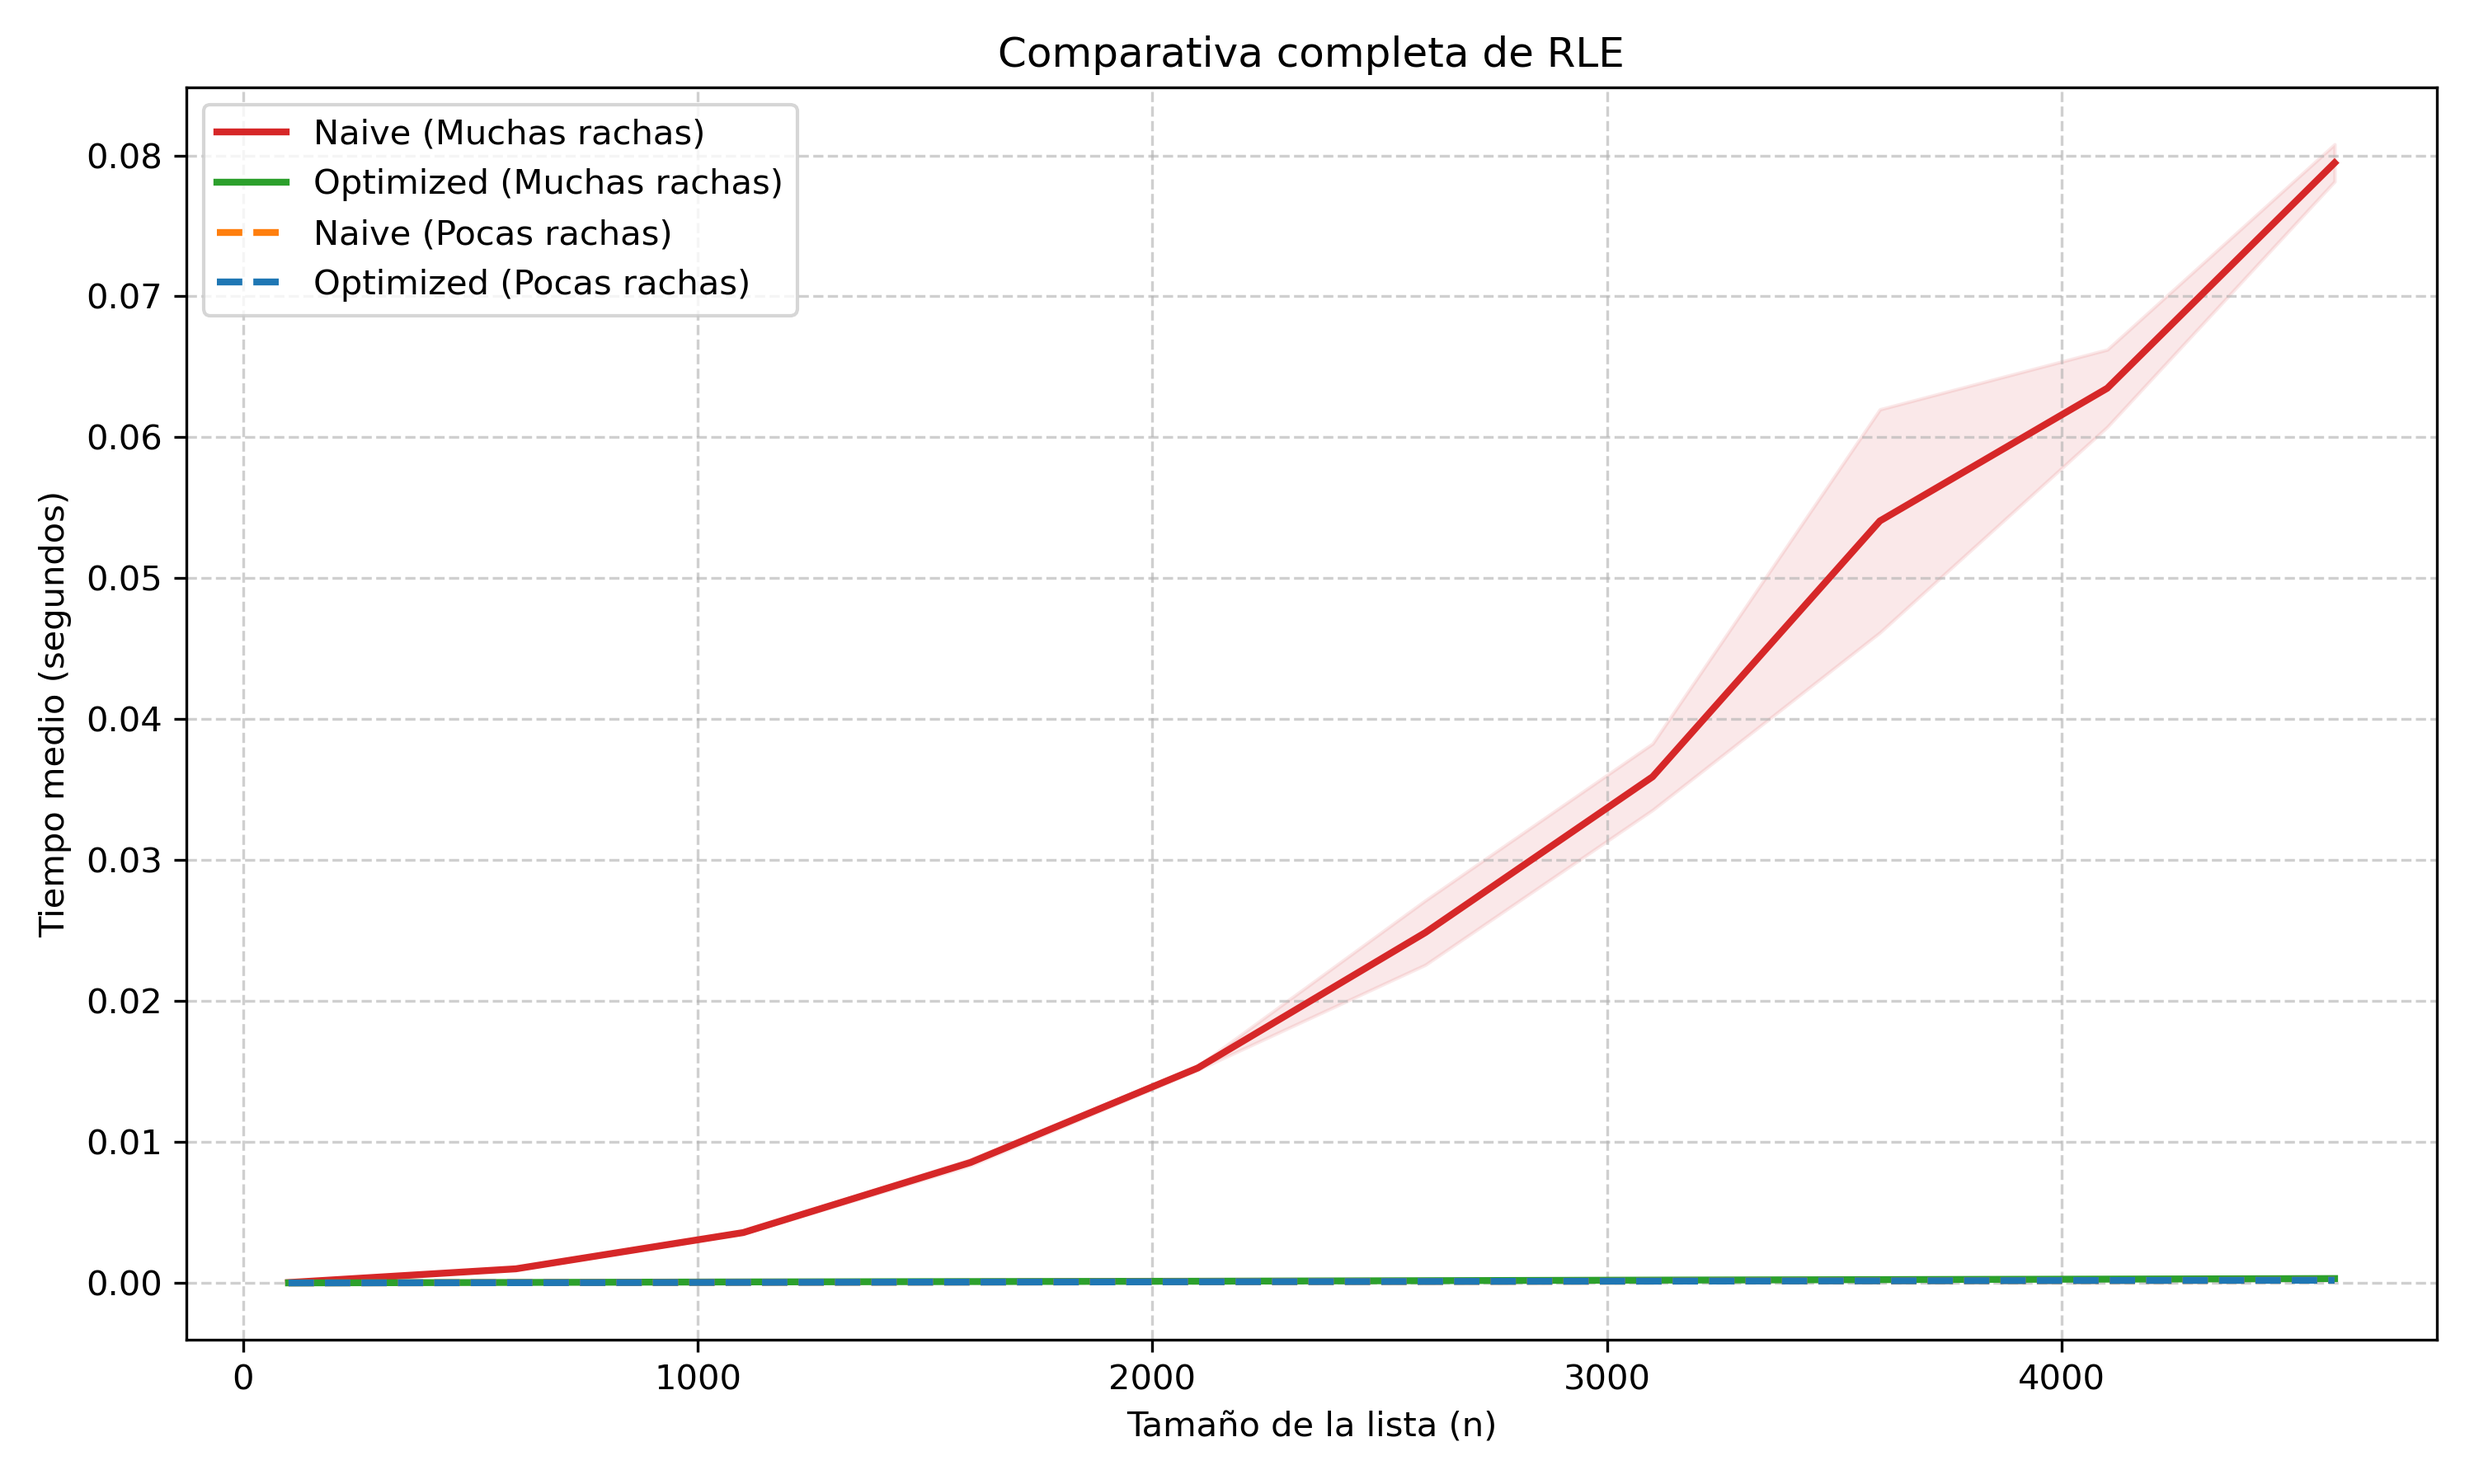
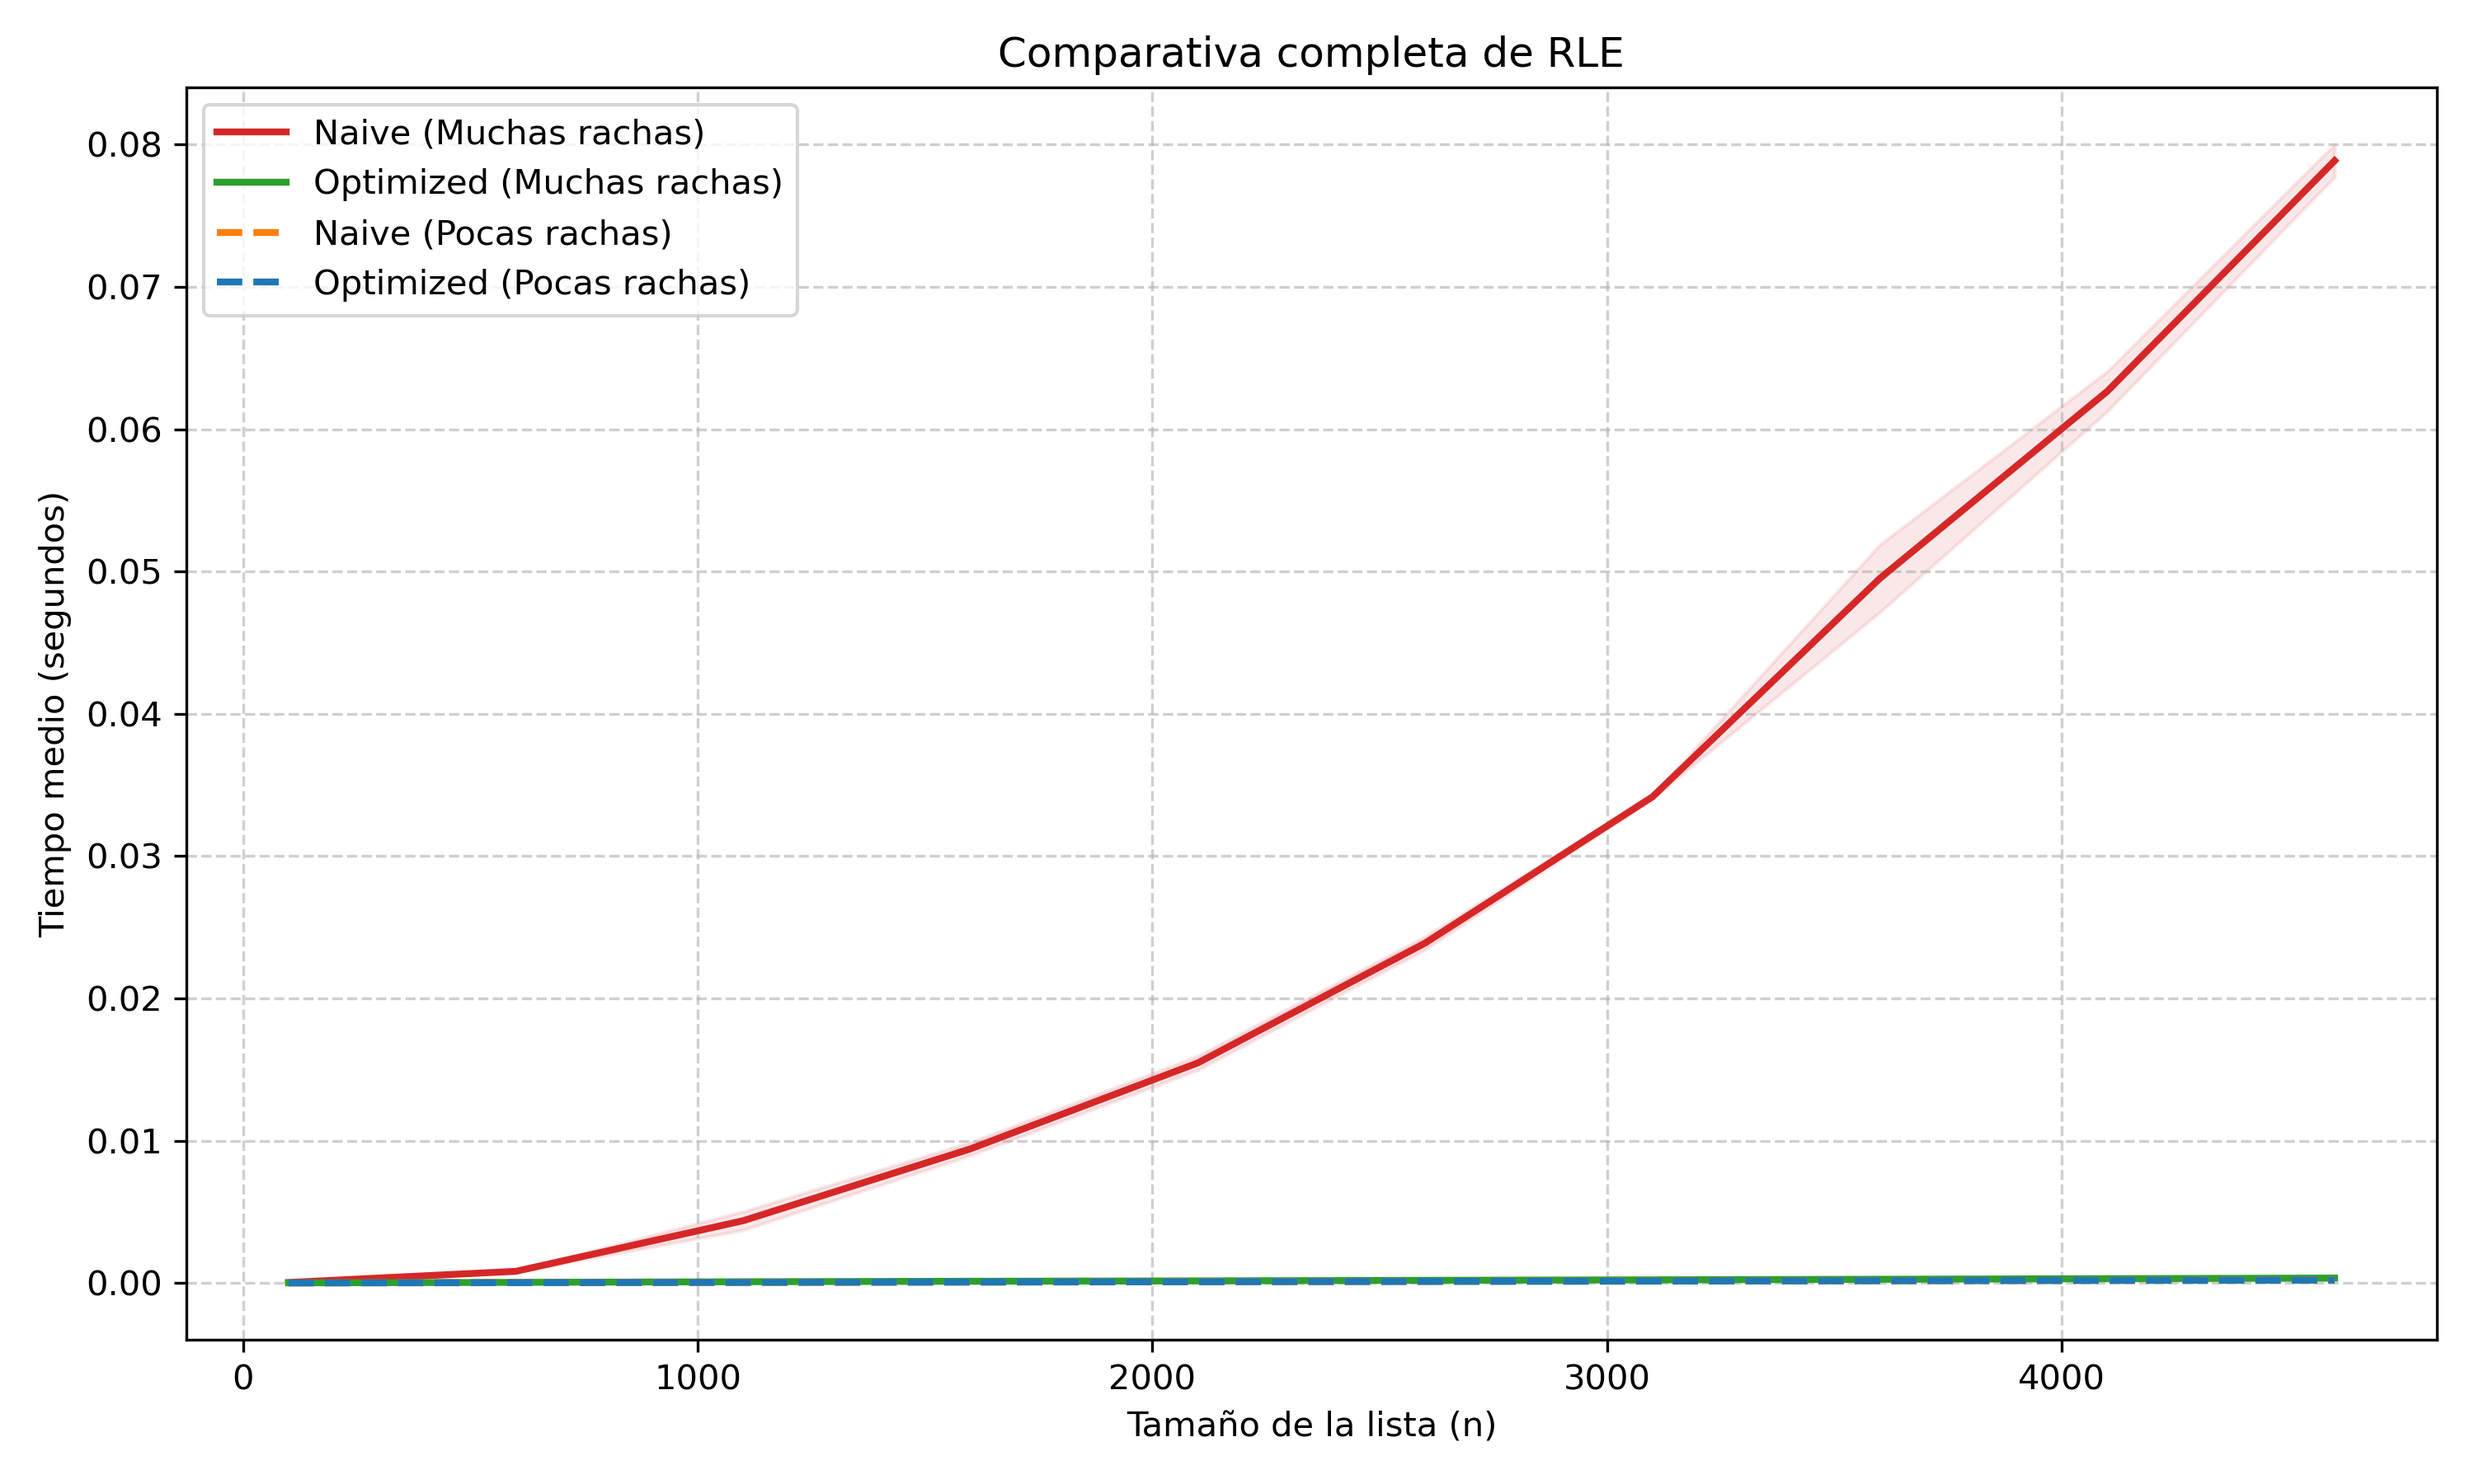
cds

diff --git a/p1.py b/p1.py
@@ -6,6 +6,8 @@ import time  # Proporciona temporizadores de alta resolución.
 
 import matplotlib.pyplot as plt  # Biblioteca utilizada para crear gráficas.
 
+import numpy as np
+from typing import Dict
 
 # I.A.1. Medición de tiempos de ejecución
 def time_measure(
@@ -223,4 +225,50 @@ def rle_encode_optimized(lst):
             contador = 1
 
     resultado.append((actual, contador))  
+    return resultado
+
+def init_cd(n: int)-> np.ndarray:
+    cd_array = np.full(n, -1, dtype=int)
+    return cd_array
+
+def find(ind: int, p_cd: np.ndarray)-> int:
+    z = ind
+    while p_cd[z] >= 0:
+        z = p_cd[z]
+    
+    while p_cd[ind] >= 0: 
+        next_node = p_cd[ind]
+        p_cd[ind] = z
+        ind = next_node
+
+    return z
+
+def union(rep_1: int, rep_2: int, p_cd: np.ndarray) -> int:
+    if rep_1 == rep_2:
+        return rep_1
+
+    if p_cd[rep_1] < p_cd[rep_2]:
+        p_cd[rep_2] = rep_1
+        return rep_1
+        
+    elif p_cd[rep_2] < p_cd[rep_1]:
+        p_cd[rep_1] = rep_2
+        return rep_2
+        
+    else:
+        p_cd[rep_1] = rep_2
+        p_cd[rep_2] -= 1
+        return rep_1
+
+def cd_2_dict(p_cd: np.ndarray) -> Dict:
+    resultado = {}
+    
+    for i in range(len(p_cd)):
+        rep = find(i, p_cd)
+        
+        if rep not in resultado:
+            resultado[rep] = []
+            
+        resultado[rep].append(i)
+        
     return resultado

diff --git a/mediciones_rle.py b/mediciones_rle.py
@@ -1,13 +1,28 @@
+import random
 import math
 import matplotlib.pyplot as plt
 from p1 import time_measure, rle_encode_naive, rle_encode_optimized
 
 def prep_muchas_rachas(n):
-    return [i % 2 for i in range(n)]
+    return [random.randint(1, 1000000) for _ in range(n)]
 
 def prep_pocas_rachas(n):
-    mitad = n // 2
-    return [0] * mitad + [1] * (n - mitad)
+    num_rachas = random.randint(3, 6)
+    lst = []
+    
+    tamano_racha = n // num_rachas
+    
+    for i in range(num_rachas):
+        valor = random.randint(1, 1000)
+
+        if i == num_rachas - 1:
+            cantidad = n - len(lst)
+        else:
+            cantidad = tamano_racha
+            
+        lst.extend([valor] * cantidad)
+        
+    return lst
 
 Nlist = list(range(100, 5001, 500))
 
